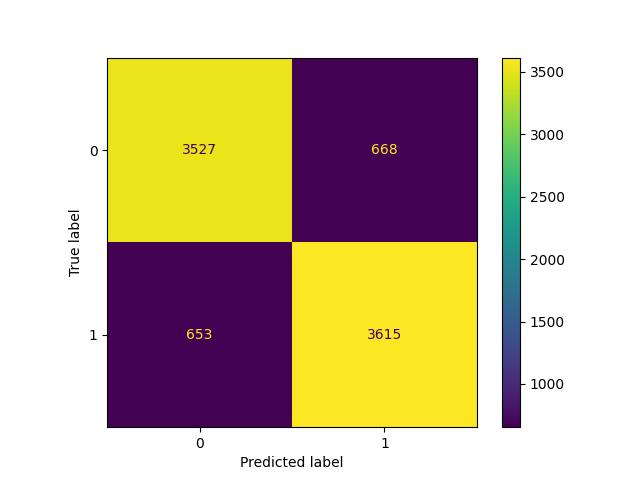
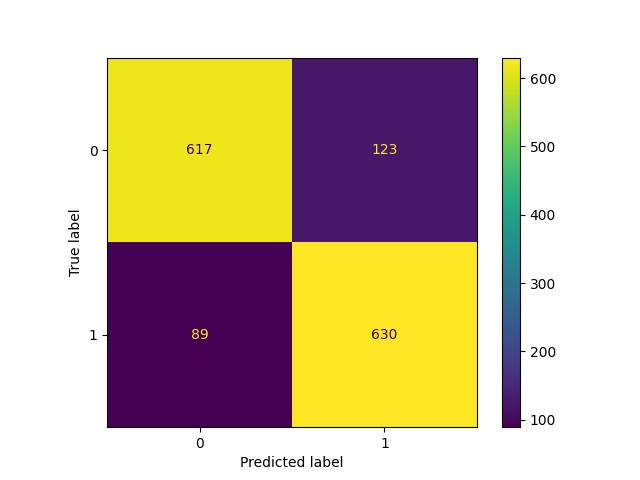
doing it mum

diff --git a/lr_run_training.py b/lr_run_training.py
@@ -16,7 +16,7 @@ from sklearn.impute import SimpleImputer
 import math
 
 class LR_training:
-    def __init__(self, model_version, threshold = 0.98, start_date = None, end_date = None):
+    def __init__(self, model_version, threshold = 0.99, start_date = None, end_date = None):
         self.model_version = model_version
         self.threshold = threshold
 
@@ -26,45 +26,15 @@ class LR_training:
             self.end_date = end_date
 
         stocks = [
-    'AAPL', 'MSFT', 'NVDA', 'GOOGL', 'GOOG', 'AMZN', 'META', 'TSLA', 'BRK.B', 'UNH',
-    'V', 'JNJ', 'XOM', 'WMT', 'JPM', 'MA', 'LLY', 'PG', 'HD', 'BAC',
-    'PFE', 'KO', 'DIS', 'CSCO', 'PEP', 'MRK', 'ABT', 'CMCSA', 'ADBE', 'NFLX',
-    'TMO', 'VZ', 'INTC', 'NKE', 'AVGO', 'CRM', 'TXN', 'MCD', 'QCOM', 'HON',
-    'AMD', 'COST', 'AMGN', 'NEE', 'MDT', 'LOW', 'UPS', 'SCHW', 'UNP', 'IBM',
-    'LIN', 'PM', 'ORCL', 'MS', 'RTX', 'INTU', 'CVX', 'SBUX', 'BLK', 'GS',
-    'ISRG', 'CAT', 'AMT', 'PLD', 'DE', 'BKNG', 'SPGI', 'AXP', 'T', 'SYK',
-    'ZTS', 'MDLZ', 'ADP', 'CB', 'NOW', 'LMT', 'GILD', 'DUK', 'MMC', 'CI',
-    'EL', 'GE', 'ADI', 'MO', 'SO', 'BDX', 'PNC', 'USB', 'EW', 'TGT',
-    'C', 'REGN', 'ITW', 'APD', 'MU', 'DHR', 'FIS', 'FISV', 'HUM', 'NSC',
-    'CL', 'SHW', 'BSX', 'EQIX', 'WM', 'EMR', 'D', 'HCA', 'TJX', 'ILMN',
-    'LRCX', 'EOG', 'ETN', 'NOC', 'PGR', 'FCX', 'MCO', 'AON', 'KLAC', 'MRNA',
-    'IDXX', 'AEP', 'PSA', 'TRV', 'CSX', 'KMB', 'ROP', 'MAR', 'NXPI', 'STZ',
-    'SLB', 'CTAS', 'MSCI', 'PH', 'ADM', 'AIG', 'BK', 'MPC', 'CME', 'ORLY',
-    'SRE', 'FTNT', 'CTSH', 'MCK', 'APTV', 'CDNS', 'AZO', 'LHX', 'PAYX', 'DLR',
-    'F', 'WBA', 'ROST', 'ATVI', 'PRU', 'EXC', 'WELL', 'MNST', 'KHC', 'HLT',
-    'IQV', 'SYY', 'SPG', 'CTVA', 'EBAY', 'TT', 'ALL', 'MTD', 'RMD', 'WMB',
-    'OTIS', 'TEL', 'PCAR', 'DLTR', 'BAX', 'PPG', 'HPQ', 'WEC', 'ECL', 'ED',
-    'ROK', 'A', 'ODFL', 'VLO', 'BKR', 'ANET', 'AME', 'FAST', 'GPN', 'TDG',
-    'DOW', 'STT', 'DFS', 'GLW', 'VRSK', 'SWK', 'FITB', 'KEYS', 'HSY', 'ALGN',
-    'KMI', 'DHI', 'NEM', 'WAT', 'MTB', 'VFC', 'CHTR', 'SIVB', 'ZBH', 'AMP',
-    'URI', 'EFX', 'MLM', 'FRC', 'AVB', 'HIG', 'MKC', 'VTR', 'LEN', 'CNC',
-    'RF', 'LUV', 'CBRE', 'CARR', 'TSCO', 'ETSY', 'HES', 'PXD', 'EXPE', 'EQR',
-    'ALB', 'LH', 'BLL', 'AKAM', 'GRMN', 'FMC', 'RSG', 'VRSN', 'HOLX', 'TER',
-    'XYL', 'AEE', 'FE', 'ES', 'CMS', 'DTE', 'PEG', 'AEP', 'LNT', 'WEC',
-    'XEL', 'EIX', 'PPL', 'SRE', 'ED', 'D', 'SO', 'DUK', 'NEE', 'AEP',
-    'LNT', 'WEC', 'XEL', 'EIX', 'PPL', 'SRE', 'ED', 'D', 'SO', 'DUK',
-    'NEE', 'AEP', 'LNT', 'WEC', 'XEL', 'EIX', 'PPL', 'SRE', 'ED', 'D',
-    'SO', 'DUK', 'NEE', 'AEP', 'LNT', 'WEC', 'XEL', 'EIX', 'PPL', 'SRE',
-    'ED', 'D', 'SO', 'DUK', 'NEE', 'AEP', 'LNT', 'WEC', 'XEL', 'EIX',
-    'PPL', 'SRE', 'ED', 'D', 'SO', 'DUK', 'NEE', 'AEP', 'LNT', 'WEC',
-    'XEL', 'EIX', 'PPL', 'SRE', 'ED', 'D', 'SO', 'DUK', 'NEE', 'AEP',
-    'LNT', 'WEC', 'XEL', 'EIX', 'PPL', 'SRE', 'ED', 'D', 'SO', 'DUK',
-    'NEE', 'AEP', 'LNT', 'WEC', 'XEL', 'EIX', 'PPL', 'SRE', 'ED', 'D',
-    'SO', 'DUK', 'NEE', 'AEP', 'LNT', 'WEC', 'XEL', 'EIX', 'PPL', 'SRE',
-    'ED', 'D', 'SO', 'DUK', 'NEE', 'AEP', 'LNT', 'WEC', 'XEL', 'EIX',
-    'PPL', 'SRE', 'ED', 'D', 'SO', 'DUK', 'NEE', 'AEP', 'LNT', 'WEC',
-    'XEL', 'EIX', 'PPL', 'SRE', 'ED', 'D', 'SO', 'DUK', 'NEE', 'AEP',
-    'LNT', 'WEC', 'XEL', 'EIX', 'PPL']
+    # Dow Jones Industrial Average (DJIA) Components
+    "MMM", "AXP", "BA", "CAT", "CVX", "CSCO", "GS",
+    "HD", "HON", "IBM", "INTC", "MCD", "MRK", "NKE",
+    "CRM", "TRV", "VZ", "WBA", "WMT", "DIS", "XOM",
+
+    # Top 20 S&P 500 Companies by Market Capitalization
+    "AAPL", "MSFT", "AMZN", "GOOGL", "GOOG", "NVDA", "META", "TSLA", "UNH",
+    "JNJ", "JPM", "V", "PG", "MA", "PFE", "ABBV", "KO",
+]
         self.stocks = list(np.unique(stocks))
 
         self.main_df = pd.DataFrame(columns = ['volume', 'normalized_value', '3_reg', '5_reg', '10_reg', '20_reg', 'target'])

diff --git a/backtester.py b/backtester.py
@@ -129,5 +129,5 @@ if __name__ == "__main__":
     "JNJ", "JPM", "V", "PG", "MA", "PFE", "ABBV", "KO",
 ]
     stocks = list(np.unique(stocks))
-    back = backtester(stocks, LR_v1_predict, 3000, datetime(2019, 1, 1), datetime(2020, 1, 1), threshold = 0.95, sell_perc = 0.04, stop_perc = 0.03)
+    back = backtester(stocks, LR_v1_predict, 3000, datetime(2023, 1, 1), datetime(2024, 1, 1), threshold = 0.95, sell_perc = 0.04, stop_perc = 0.03)
 back.backtest()

diff --git a/lr_inference.py b/lr_inference.py
@@ -27,7 +27,7 @@ def _threshold(probs, threshold):
 
     return np.array(prob_thresholded)
 
-def LR_v1_predict(stock, start_date, end_date, threshold = 0.98):
+def LR_v1_predict(stock, start_date, end_date, threshold = 0.99):
     """
     This function predicts given the data
     """

diff --git a/README.md b/README.md
@@ -1,1 +1,69 @@
-# trade_wiv_me
+# find out where each prediction threshold comes into play
+# find out how to graph the local minima vs maxima points (recorded as well as predictions, on two separate graphs, obviously)
+
+Task list:
+Save this repository, and clone it to save all of the work I have done.
+On the cloned verious, work with one stock (GS, for instance). With this stock, write code to visualise where the minima and maxima are.
+Then, train the model, and produce another graph to see where the buy signals are (just to check that I am doing it correctly).
+Next up, use reinforcement learning to find the optimum parameters (threshold, hold_till etc.).
+After this, learn and see if I can input the LSTM model that I made previously to achieve a higher prediction accuracy than logistic regression.
+Then figure out the stop loss can be best used.
+
+
+
+
+How this works.
+
+Training
+
+Machine learning method: Logistic regression
+y-values: 'target' 10-day local minima and maxima
+
+First, stock data is sourced from yfinance (for 30ish stocks) data sourced is open, close, high, low, date, and volume.
+A dataframe is then made with the columns 'volume', 'normalized_value', '3_reg', '5_reg', '10_reg', '20_reg' & 'target'.
+Quick note: 'target' is made from the 10-day local minima and maxima prices, and is either 1, 0 or N/A. All columns.
+
+This is then shuffled, and the target column is made the y-coordinate for logistic regression.
+
+The x-coordinate is the rest of the dataframe, with all of the values put through a MinMaxScaler to be between 0 and 1.
+
+The data is split, with 95% used for training and 5% used for testing.
+
+Logistic regression is then used, giving a 80ish percent accuracy of its predictions.
+
+Confusion matrices are produced, assessing the model's prediction accuracy.
+
+The model and scaler is then saved
+
+---
+
+Backtesting
+
+For a defined time period (currently using 1 year), the code scans through each stock listed on day 1, then 2, 3 etc.
+
+Whilst scanning, it gets the data for the stock's previous 40 days (to allow for full 20-day regression lines to be used), and prepares a scaled dataframe (same columns as above) to be fed into the model (obviously, not including the target value).
+
+It then makes a prediction, as to whether the the stock will go up or down (resulting in a value between 0 & 1, with 1 meaning it will go straight up and 2 meaning it will go straight down).
+
+This is then compared with the predicition threshold. This is done for all stocks on a particular day. Now, there are 3 possible scenarios:
+
+- there are no predictions above the prediction threshold, in which case "No recommendations" is printed and we move onto the next day without buying any stocks.
+- There is one stock above the threshold, in which case it is bought.
+- There is multiple stocks above the prediction threshold, and the highest prediction number stock is used.
+
+In the case of buying stocks, the highest whole number of stocks are bought using the available cash. The buy price, numbe rof shares, total cost, and buy_date are all recorded.
+
+(there is an option to allocate a certain percentage of total capital to the order, but this is currently set as 1)
+
+Once a stock is bought, the is held until any 1 of these 3 conditions are met:
+
+- if the current stock price is not 0 (should hopefully always be the case)
+- if the current price is below the fixed stop loss (currently set as 0.3% below the buy price).
+- if the current price is above the fixed sell price (currently set at 4% above the buy price).
+- it has held the stock for longer than the maximum holding date (currently set at 21 days).
+
+(there is an option to add a trailing stop loss, which I need to look into, and find the best way of doing that)
+
+Once the stock is sold, we wait until the next day and continue scanning for stocks to buy.
+
+At the end, final loss/gain is tabulated.
